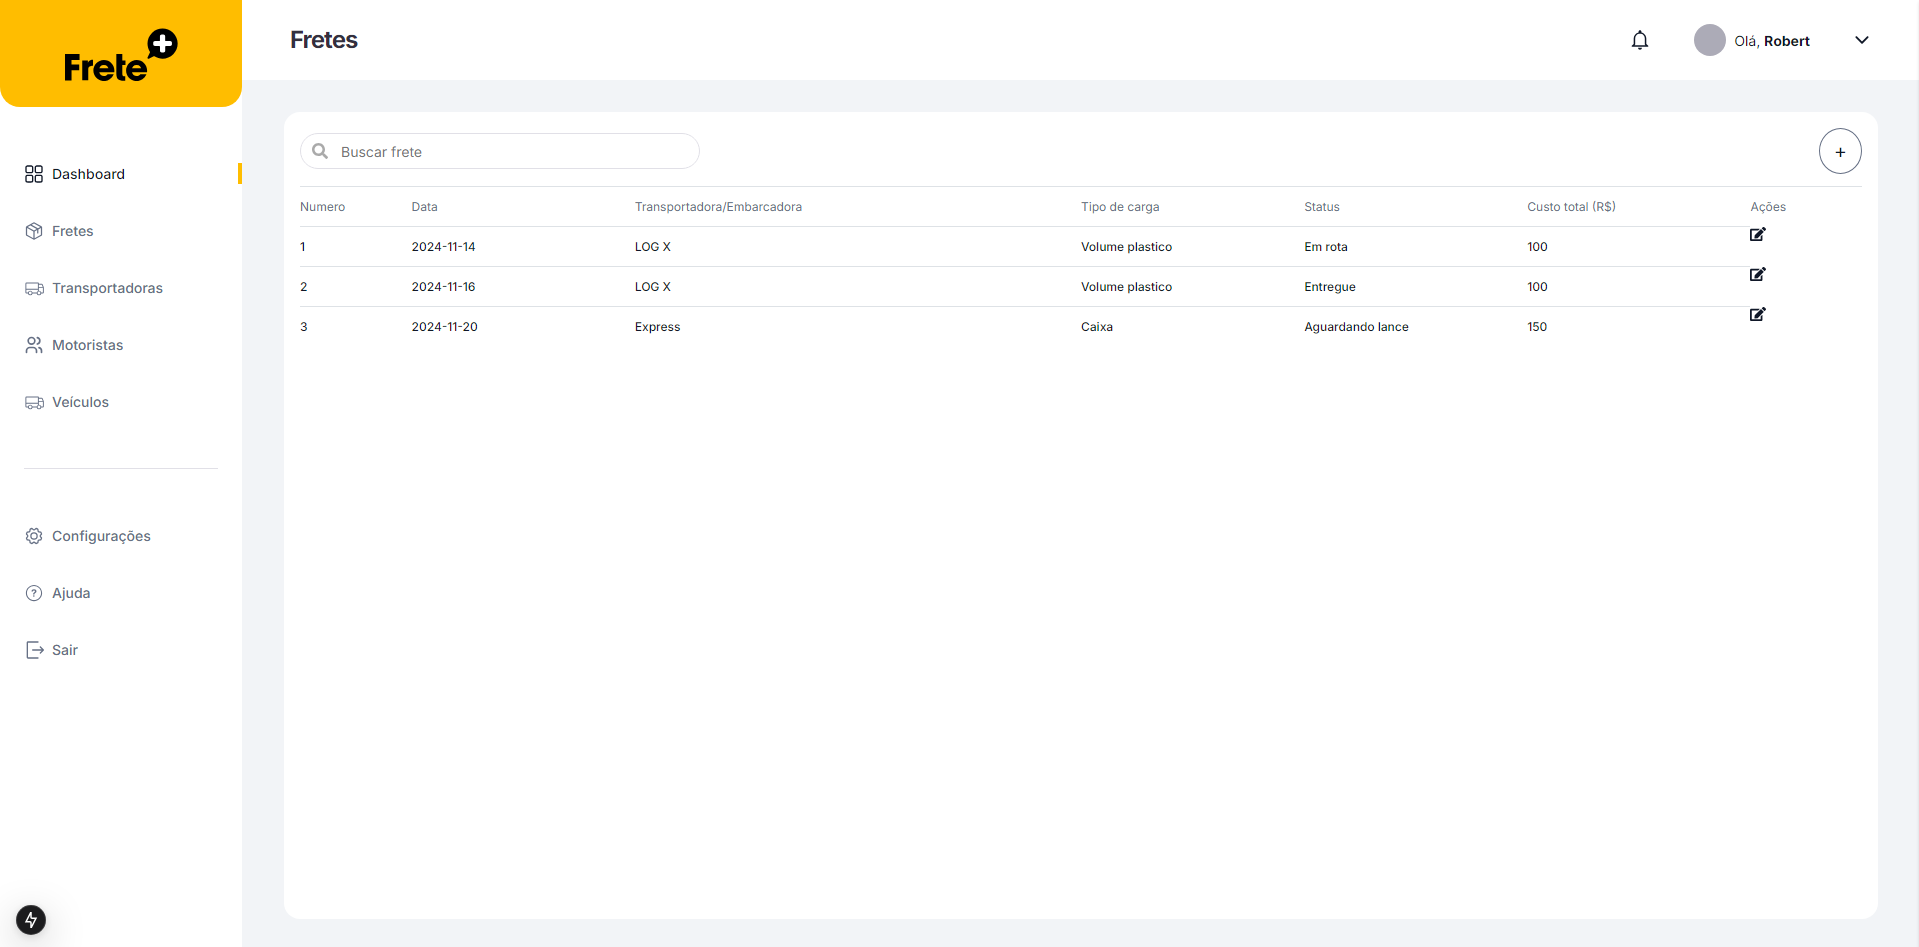
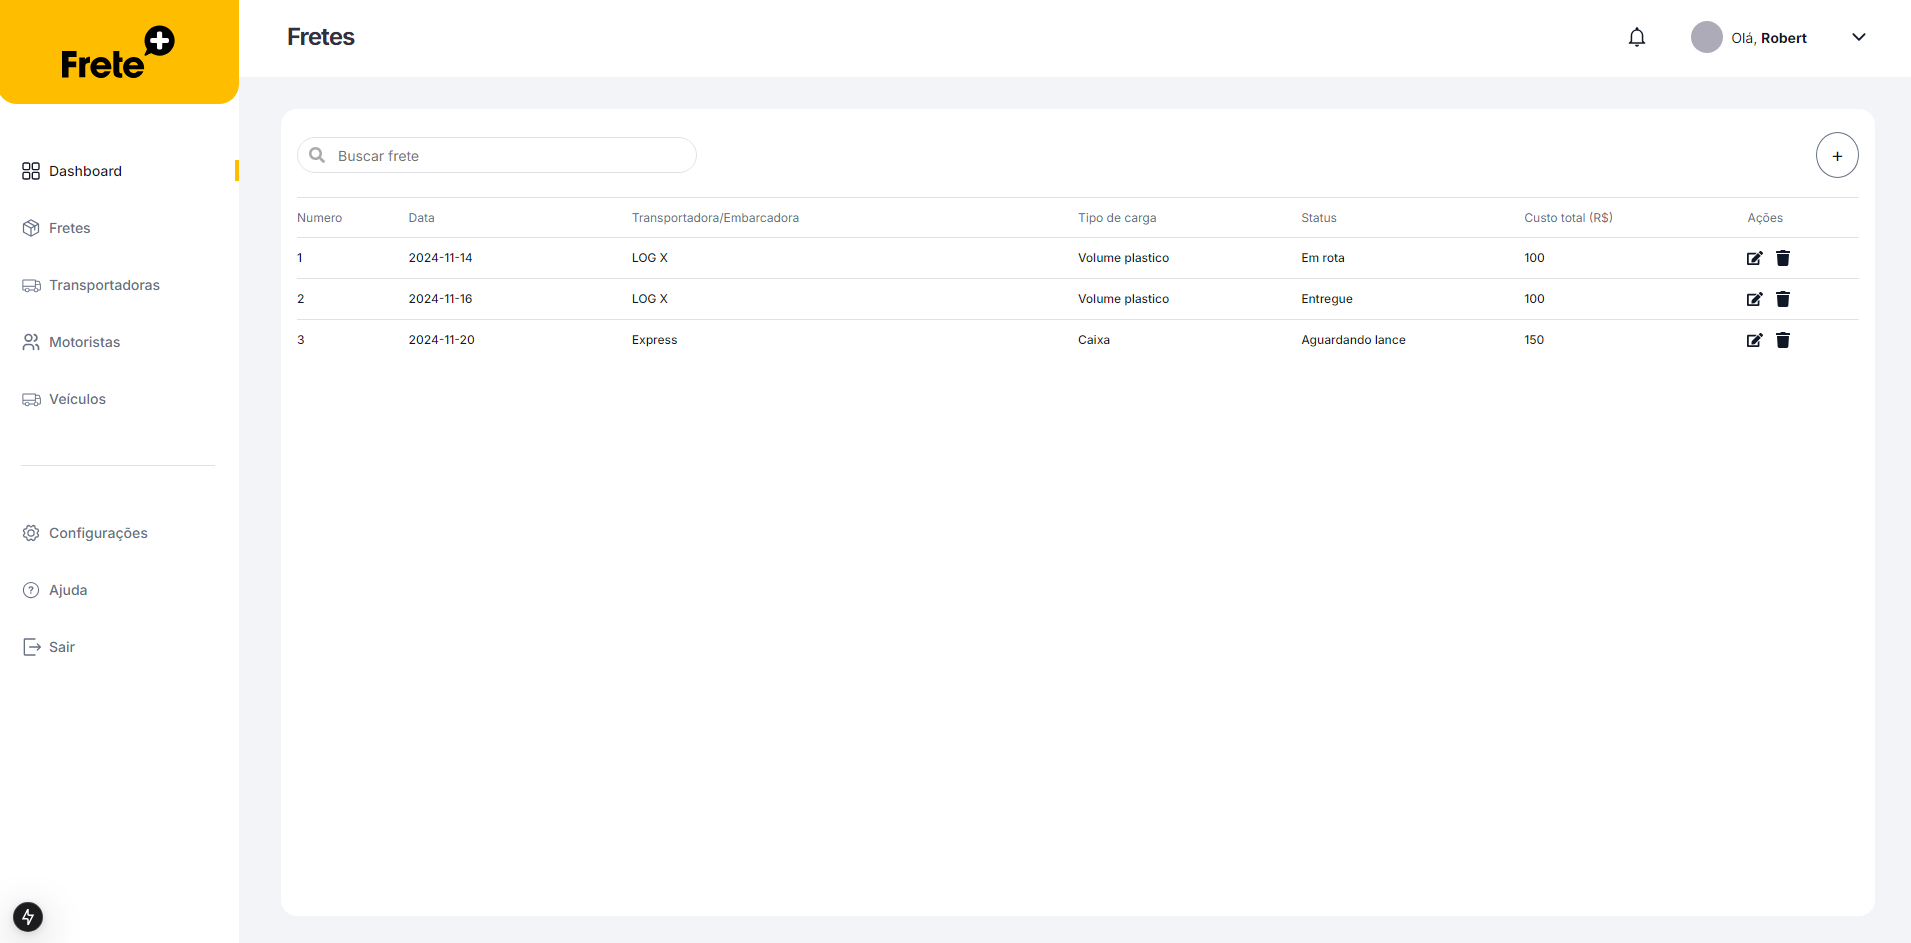
style: ajustes visuais

diff --git a/src/components/layout/styles.ts b/src/components/layout/styles.ts
@@ -10,6 +10,6 @@ export const ContainerLayout = styled.div`
   grid-template-areas: "aside header" "aside main";
 
   @media (max-width: 991px) {
-    grid-template-areas: "header header" "main main";
+    grid-template-areas: "aside header" "main main";
   }
 `;

diff --git a/src/components/layout/Freights/styles.ts b/src/components/layout/Freights/styles.ts
@@ -21,6 +21,11 @@ export const TableContent = styled.div`
     padding: 12px 0;
     border-top: 1px solid ${({ theme }) => theme.colors.primaryText[3]};
   }
+
+  .actions-icons{
+    display: flex;
+    gap: 12px;
+  }
 `;
 
 export const Actions = styled.div`
